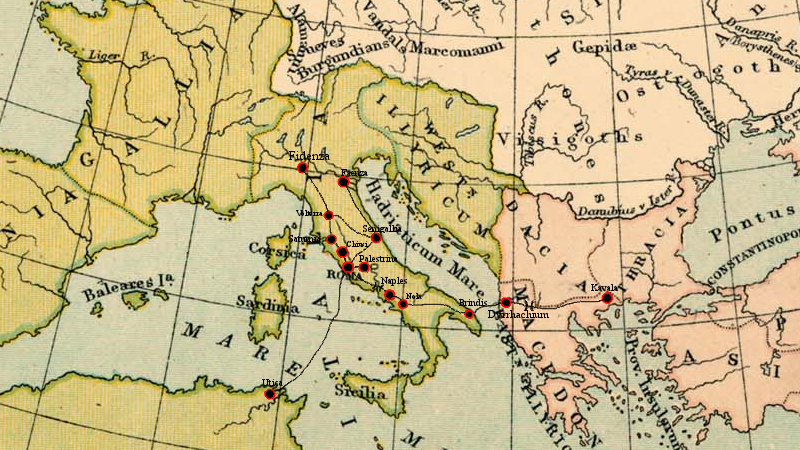
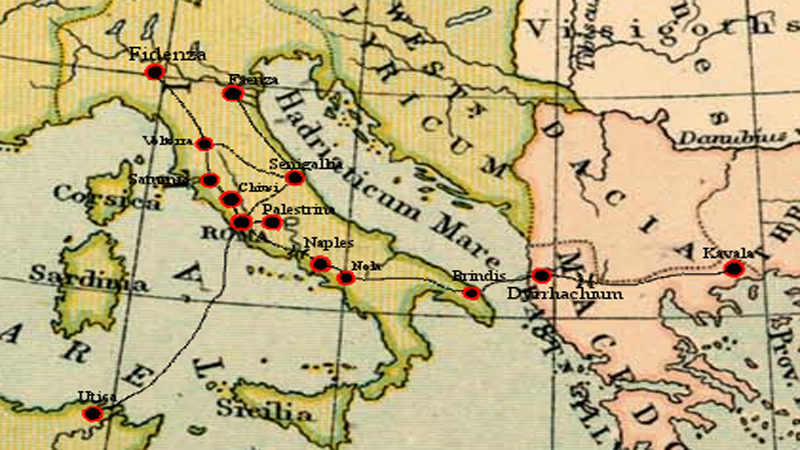
Altered Scenario Map
because it was all zoomed out and icky. Eww.

diff --git a/War/src/Map.java b/War/src/Map.java
@@ -138,7 +138,7 @@ public class Map extends javax.swing.JFrame {
                 .addContainerGap(13, Short.MAX_VALUE))
         );
 
-        scenarioMap.setIcon(new javax.swing.ImageIcon("C:\\Users\\Prem\\Documents\\4000\\source code\\4000War\\Design Elements\\Scenario-0-Map.jpg")); // NOI18N
+        scenarioMap.setIcon(new javax.swing.ImageIcon(getClass().getResource("/Images/Map1_Sulla.png"))); // NOI18N
         scenarioMap.setText("jLabel1");
         scenarioMap.setMaximumSize(new java.awt.Dimension(800, 450));
         scenarioMap.setMinimumSize(new java.awt.Dimension(800, 450));
